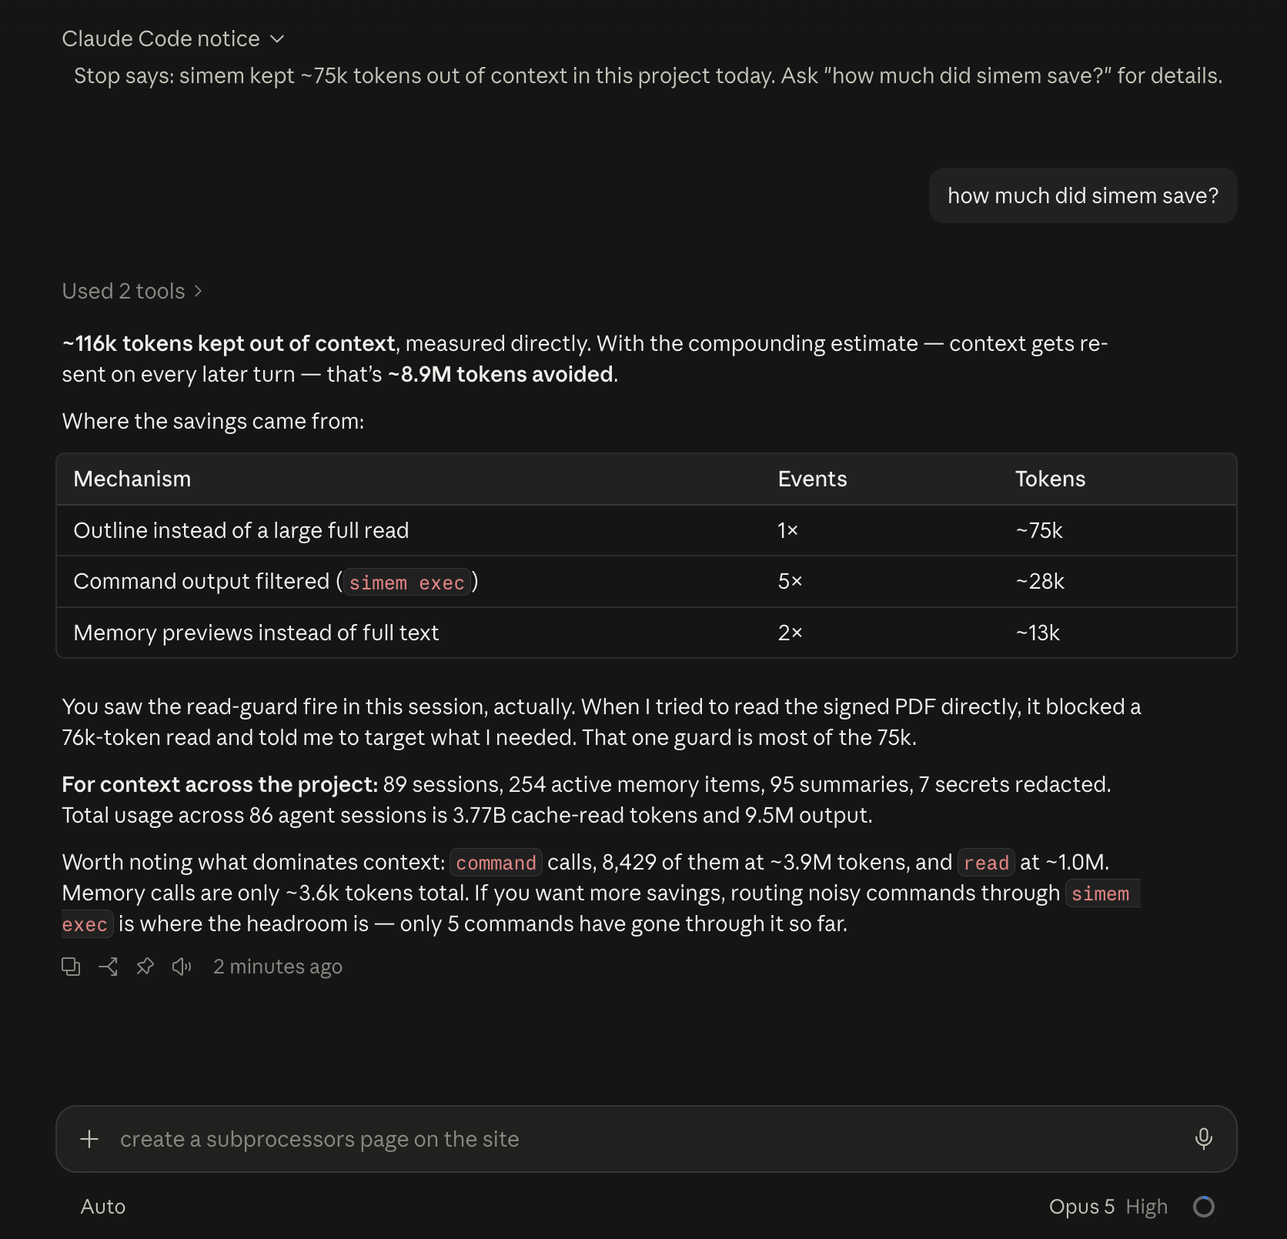
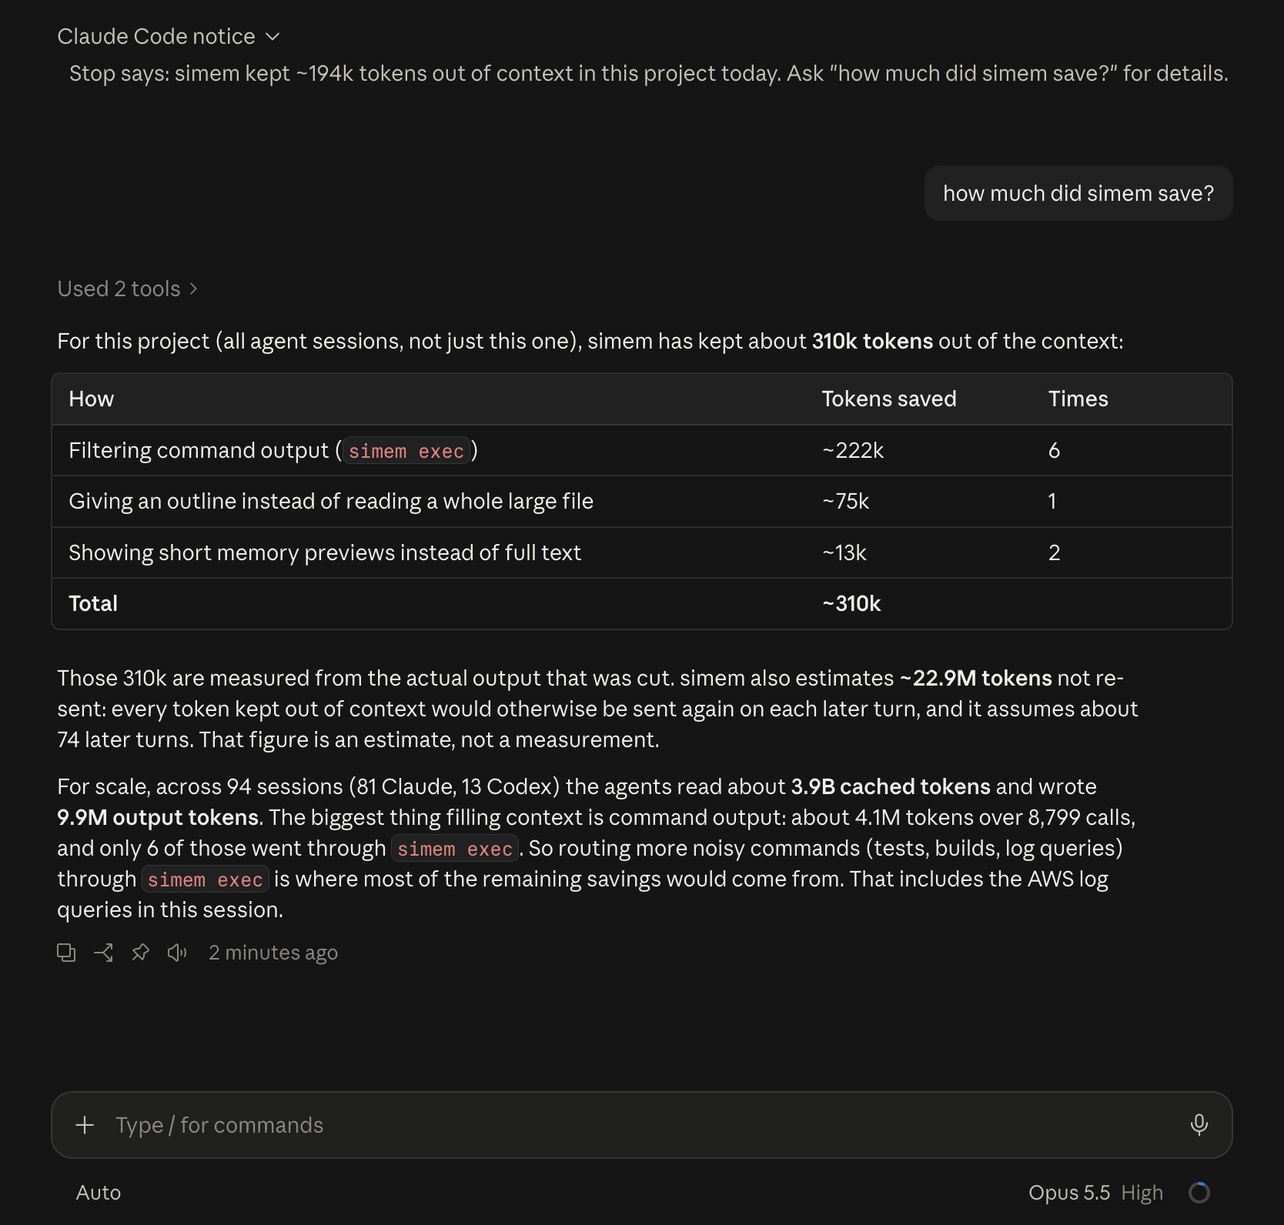
README: latest savings screenshot; images for the simem blog post
The README screenshot now shows ~310k tokens kept out of context
(measured) and ~22.9M not re-sent (estimate); the text under it matches.
Adds the six images (and their HTML sources) that the dev.to and Medium
posts load from raw.githubusercontent.com.

diff --git a/blog/simem/images/src/03-one-memory.html b/blog/simem/images/src/03-one-memory.html
@@ -1,0 +1,58 @@
+<!doctype html>
+<meta charset="utf-8">
+<link rel="stylesheet" href="base.css">
+<style>
+  svg { display: block; margin-top: 26px; }
+  .pill rect { fill: var(--panel); stroke: var(--line); }
+  .pill text { fill: var(--ink); font-size: 21px; font-weight: 600; }
+  .pill .s { fill: var(--ink-3); font-size: 15px; font-weight: 500; }
+  .wire { stroke: var(--with); stroke-width: 2.5; fill: none; opacity: .8; }
+  .vault rect.o { fill: #12241e; stroke: var(--with); stroke-width: 2; }
+  .vault text { fill: var(--ink); }
+  .checks text { fill: var(--ink-2); font-size: 21px; }
+  .checks .c { fill: var(--mint); font-weight: 700; }
+</style>
+<div class="frame glow">
+  <div class="kicker">Problem 2 · memory stuck in one app, one account</div>
+  <h1>Memory belongs to the project.<br><span class="mint">Not to the app. Not to the login.</span></h1>
+  <svg width="1456" height="560" viewBox="0 0 1456 560">
+    <defs>
+      <marker id="a" viewBox="0 0 10 10" refX="8" refY="5" markerWidth="7" markerHeight="7" orient="auto"><path d="M0 0L10 5L0 10z" fill="#199e70"/></marker>
+    </defs>
+    <!-- sources -->
+    <g class="pill" transform="translate(0,20)"><rect width="380" height="76" rx="14"/><text x="24" y="34">Claude Code</text><text class="s" x="24" y="58">account A, app or CLI</text></g>
+    <g class="pill" transform="translate(0,120)"><rect width="380" height="76" rx="14"/><text x="24" y="34">Claude Code</text><text class="s" x="24" y="58">account B, after hitting a limit</text></g>
+    <g class="pill" transform="translate(0,220)"><rect width="380" height="76" rx="14"/><text x="24" y="34">Codex</text><text class="s" x="24" y="58">app or CLI</text></g>
+    <g class="pill" transform="translate(0,320)"><rect width="380" height="76" rx="14"/><text x="24" y="34">Cursor</text><text class="s" x="24" y="58">through simem's tools</text></g>
+    <g class="pill" transform="translate(0,420)"><rect width="380" height="76" rx="14"/><text x="24" y="34">New worktree or re-clone</text><text class="s" x="24" y="58">same repo, different folder</text></g>
+    <!-- wires -->
+    <path class="wire" marker-end="url(#a)" d="M380 58 C 470 58, 470 240, 548 250"/>
+    <path class="wire" marker-end="url(#a)" d="M380 158 C 470 158, 470 250, 548 255"/>
+    <path class="wire" marker-end="url(#a)" d="M380 258 L 548 258"/>
+    <path class="wire" marker-end="url(#a)" d="M380 358 C 470 358, 470 266, 548 261"/>
+    <path class="wire" marker-end="url(#a)" d="M380 458 C 470 458, 470 276, 548 266"/>
+    <!-- vault -->
+    <g class="vault" transform="translate(556,150)">
+      <rect class="o" width="400" height="216" rx="20"/>
+      <text x="32" y="56" font-size="15" font-family="SF Mono, Menlo, monospace" letter-spacing="2" fill="#9fe3c7">ON YOUR MACHINE</text>
+      <text x="32" y="102" font-size="24" font-weight="700" font-family="SF Mono, Menlo, monospace">~/.simem/projects/</text>
+      <text x="32" y="134" font-size="24" font-weight="700" font-family="SF Mono, Menlo, monospace">&lt;project-id&gt;</text>
+      <text x="32" y="174" font-size="16" fill="#b9c7c0">id = your repo's first commit,</text>
+      <text x="32" y="196" font-size="16" fill="#b9c7c0">the same in every clone and worktree</text>
+    </g>
+    <path class="wire" marker-end="url(#a)" d="M956 258 L 1044 258"/>
+    <!-- result -->
+    <g transform="translate(1052,58)">
+      <rect width="404" height="400" rx="20" fill="#171e1b" stroke="#2a3530"/>
+      <text x="30" y="52" font-size="24" font-weight="700" fill="#eef5f1">Same memory everywhere</text>
+      <g class="checks">
+        <text x="30" y="110"><tspan class="c">✓ </tspan>log out, switch accounts</text>
+        <text x="30" y="160"><tspan class="c">✓ </tspan>Claude Code ⇄ Codex ⇄ Cursor</text>
+        <text x="30" y="210"><tspan class="c">✓ </tspan>new worktrees</text>
+        <text x="30" y="260"><tspan class="c">✓ </tspan>fresh clones</text>
+        <text x="30" y="310"><tspan class="c">✓ </tspan>renamed folders</text>
+        <text x="30" y="360"><tspan class="c">✓ </tspan>say “continue” in the other app</text>
+      </g>
+    </g>
+  </svg>
+</div>

diff --git a/blog/simem/images/src/05-jest-before-after.html b/blog/simem/images/src/05-jest-before-after.html
@@ -1,0 +1,69 @@
+<!doctype html>
+<meta charset="utf-8">
+<link rel="stylesheet" href="base.css">
+<style>
+  .cols { display: grid; grid-template-columns: 1.08fr 1fr; gap: 28px; margin-top: 30px; }
+  .term { background: #0b0f0e; border: 1px solid var(--line); border-radius: 16px; overflow: hidden; }
+  .bar { display: flex; align-items: center; gap: 8px; padding: 14px 18px; background: var(--panel); border-bottom: 1px solid var(--line); }
+  .bar i { width: 12px; height: 12px; border-radius: 50%; background: #3a4842; }
+  .bar b { margin-left: 10px; font-size: 18px; font-weight: 650; }
+  .bar span { margin-left: auto; font: 600 16px var(--mono); padding: 5px 10px; border-radius: 8px; }
+  pre { margin: 0; padding: 16px 20px; font: 15.5px/1.5 var(--mono); color: var(--ink-2); height: 520px; overflow: hidden; }
+  .p { color: #4f9e7e; }
+  .f { color: #ff7b5a; font-weight: 700; }
+  .w { color: var(--ink); }
+  .dim { color: var(--ink-3); font-style: italic; }
+  .stats { display: flex; gap: 14px; margin-top: 22px; }
+  .chip { background: var(--panel); border: 1px solid var(--line); border-radius: 12px; padding: 12px 18px; font-size: 19px; color: var(--ink-2); }
+  .chip b { color: var(--mint); font-size: 22px; margin-right: 6px; }
+</style>
+<div class="frame glow">
+  <div class="kicker">Problem 3 · what simem trims</div>
+  <h1>112 lines in. <span class="mint">12 lines out.</span> The failure, word for word.</h1>
+  <div class="cols">
+    <div class="term">
+      <div class="bar"><i></i><i></i><i></i><b>npx jest, as printed</b><span style="background:rgba(217,89,38,.16);color:#ff9a78">4,082 chars</span></div>
+<pre><span class="p"> PASS </span> src/module0.test.ts
+<span class="p"> PASS </span> src/module1.test.ts
+<span class="p"> PASS </span> src/module2.test.ts
+<span class="p"> PASS </span> src/module3.test.ts
+<span class="p"> PASS </span> src/module4.test.ts
+<span class="dim">   … 55 more PASS lines …</span>
+<span class="f"> FAIL </span> <span class="w">src/billing/invoice.test.ts</span>
+<span class="w">  ● computeInvoiceTotal › applies tax</span>
+<span class="w">    expect(received).toBe(expected) // Object.is equality</span>
+<span class="w">    Expected: 120</span>
+<span class="w">    Received: 100</span>
+<span class="w">      at Object.&lt;anonymous&gt; (src/billing/invoice.test.ts:12:23)</span>
+<span class="p">  ✓</span> unrelated passing case 0 (3 ms)
+<span class="p">  ✓</span> unrelated passing case 1 (3 ms)
+<span class="p">  ✓</span> unrelated passing case 2 (3 ms)
+<span class="p">  ✓</span> unrelated passing case 3 (3 ms)
+<span class="dim">   … 36 more passing lines …</span>
+Test Suites: 1 failed, 60 passed, 61 total
+Tests:       1 failed, 340 passed, 341 total
+Time:        8.123 s</pre>
+    </div>
+    <div class="term">
+      <div class="bar"><i></i><i></i><i></i><b>what the agent reads with simem</b><span style="background:rgba(25,158,112,.18);color:#9fe3c7">341 chars</span></div>
+<pre><span class="f">FAIL</span>  <span class="w">src/billing/invoice.test.ts</span>
+<span class="w">  ● computeInvoiceTotal › applies tax</span>
+
+<span class="w">    expect(received).toBe(expected) // Object.is equality</span>
+
+<span class="w">    Expected: 120</span>
+<span class="w">    Received: 100</span>
+
+<span class="w">      at Object.&lt;anonymous&gt; (src/billing/invoice.test.ts:12:23)</span>
+<span class="w">Test Suites: 1 failed, 60 passed, 61 total</span>
+<span class="w">Tests:       1 failed, 340 passed, 341 total</span>
+<span class="w">Time:        8.123 s</span>
+</pre>
+    </div>
+  </div>
+  <div class="stats">
+    <div class="chip"><b>92%</b>shorter</div>
+    <div class="chip"><b>0</b>failure lines dropped</div>
+    <div class="chip"><b>100%</b>of the raw output kept on disk: <code>simem out &lt;id&gt;</code></div>
+  </div>
+</div>

diff --git a/blog/simem/images/src/02-session-start.html b/blog/simem/images/src/02-session-start.html
@@ -1,0 +1,58 @@
+<!doctype html>
+<meta charset="utf-8">
+<link rel="stylesheet" href="base.css">
+<style>
+  .cols { display: grid; grid-template-columns: 1fr 1fr; gap: 28px; margin-top: 34px; }
+  .panel { background: var(--panel); border: 1px solid var(--line); border-radius: 18px; overflow: hidden; }
+  .head { display: flex; align-items: center; gap: 12px; padding: 18px 24px; border-bottom: 1px solid var(--line); font-weight: 650; font-size: 22px; }
+  .dot { width: 12px; height: 12px; border-radius: 50%; }
+  .head small { margin-left: auto; font-weight: 500; font-size: 15px; color: var(--ink-3); }
+  .body { padding: 20px 26px; font: 18px/1.62 var(--mono); color: var(--ink-2); height: 410px; }
+  .tool { color: var(--ink); }
+  .tool b { display: inline-block; min-width: 82px; color: var(--without); font-weight: 600; }
+  .say { color: var(--ink); font-family: -apple-system, sans-serif; font-size: 19px; }
+  .ask { margin-top: 10px; padding: 10px 14px; border-radius: 10px; background: rgba(217, 89, 38, .12); border: 1px solid rgba(217, 89, 38, .35); color: var(--ink); font-family: -apple-system, sans-serif; font-size: 19px; }
+  .h { color: var(--mint); font-weight: 600; }
+  .k { color: var(--ink); }
+  .note { padding: 14px 26px 18px; font-size: 17px; line-height: 1.4; border-top: 1px solid var(--line); color: var(--ink-2); }
+  .note strong { color: var(--ink); }
+</style>
+<div class="frame glow">
+  <div class="kicker">Problem 1 · every session starts from scratch</div>
+  <h1>Session #48. Same project. <span class="mint">Same questions.</span></h1>
+  <div class="cols">
+    <div class="panel">
+      <div class="head"><span class="dot" style="background:var(--without)"></span>Without memory<small>typical first minutes</small></div>
+      <div class="body">
+        <div class="say">“Let me explore the project structure first.”</div>
+        <div class="tool"><b>Bash</b> ls -la</div>
+        <div class="tool"><b>Read</b> README.md</div>
+        <div class="tool"><b>Read</b> package.json</div>
+        <div class="tool"><b>Search</b> "test" in **/*.json</div>
+        <div class="tool"><b>Read</b> src/memory/store.ts</div>
+        <div class="tool"><b>Read</b> src/memory/items.ts</div>
+        <div class="tool"><b>Read</b> src/compress/filters.ts</div>
+        <div class="tool"><b>Read</b> tsconfig.json</div>
+        <div class="ask">“How do you usually run the tests here?”</div>
+      </div>
+      <div class="note"><strong>Rediscovering yesterday.</strong> And every one of those pages is re-sent on every later turn.</div>
+    </div>
+    <div class="panel">
+      <div class="head"><span class="dot" style="background:var(--with)"></span>With simem<small>real primer, simem's own repo (trimmed)</small></div>
+      <div class="body">
+        <div class="h">## Project memory: coding-agents-orchestrator</div>
+        <div class="h">### Latest work (claude app, 2026-10-19)</div>
+        <div>Title: <span class="k">Local memory and token optimization</span></div>
+        <div>Outcome: <span class="k">Version 2.0.3 is fully released.</span></div>
+        <div class="h">### Decisions &amp; constraints</div>
+        <div>- <span class="k">Must work in the coding agent apps,</span></div>
+        <div>  <span class="k">not just the CLI.</span></div>
+        <div>- <span class="k">Please make sure nothing breaks.</span></div>
+        <div class="h">### Build &amp; test commands that worked here</div>
+        <div>- <span class="k">npm run typecheck</span></div>
+        <div>- <span class="k">node --import tsx --test test/*.test.ts</span></div>
+      </div>
+      <div class="note"><strong>Starts knowing the basics.</strong> The agent still opens files to do the work, not to relearn the project.</div>
+    </div>
+  </div>
+</div>

diff --git a/blog/simem/images/src/04-compounding.html b/blog/simem/images/src/04-compounding.html
@@ -1,0 +1,55 @@
+<!doctype html>
+<meta charset="utf-8">
+<link rel="stylesheet" href="base.css">
+<style>
+  svg { display: block; margin-top: 22px; }
+  .grid { stroke: #24302b; stroke-width: 1; }
+  .axis { fill: var(--ink-3); font-size: 16px; }
+  .lbl { font-size: 20px; font-weight: 650; fill: var(--ink); }
+  .val { font-size: 17px; fill: var(--ink-2); }
+  .legend { display: flex; gap: 28px; margin-top: 22px; font-size: 18px; color: var(--ink-2); }
+  .legend span { display: inline-flex; align-items: center; gap: 10px; }
+  .legend i { width: 26px; height: 4px; border-radius: 2px; display: inline-block; }
+</style>
+<div class="frame glow">
+  <div class="kicker">Problem 3 · paying for the same text again and again</div>
+  <h1>One test report, <span class="mint">re-read on every turn after it.</span></h1>
+  <div class="sub">A jest run with 1 failure in 341 tests: ~1,130 tokens as printed, ~95 tokens after simem's filter. The app re-sends it with every message until the conversation is compacted.</div>
+  <div class="legend"><span><i style="background:var(--without)"></i>Without simem</span><span><i style="background:var(--with)"></i>With simem</span></div>
+  <svg width="1456" height="470" viewBox="0 0 1456 470">
+    <!-- y grid: 0..36k → 420..20 -->
+    <g class="grid">
+      <line x1="100" x2="1210" y1="420" y2="420" stroke="#3a4842"/>
+      <line x1="100" x2="1210" y1="308.9" y2="308.9"/>
+      <line x1="100" x2="1210" y1="197.8" y2="197.8"/>
+      <line x1="100" x2="1210" y1="86.7" y2="86.7"/>
+    </g>
+    <g class="axis" text-anchor="end">
+      <text x="86" y="425">0</text><text x="86" y="314">10k</text><text x="86" y="203">20k</text><text x="86" y="92">30k</text>
+    </g>
+    <text class="axis" x="100" y="16" font-size="15">Tokens re-read, cumulative</text>
+    <!-- x: turn 0..30 → 100..1210 (37 px/turn) -->
+    <g class="axis" text-anchor="middle">
+      <text x="100" y="448">0</text><text x="285" y="448">5</text><text x="470" y="448">10</text><text x="655" y="448">15</text><text x="840" y="448">20</text><text x="1025" y="448">25</text><text x="1210" y="448">30</text>
+    </g>
+    <text class="axis" x="655" y="470" text-anchor="middle" font-size="15">Turns after the test run</text>
+    <!-- without: 1,134/turn → 30 turns = 34,020 → y = 420 - 34020/90 = 42 -->
+    <path d="M100 420 L1210 42 L1210 420 Z" fill="#d95926" opacity=".10"/>
+    <path d="M100 420 L1210 42" stroke="#d95926" stroke-width="3" fill="none" stroke-linecap="round"/>
+    <!-- with: 95/turn → 2,850 → y = 420 - 31.7 = 388.3 -->
+    <path d="M100 420 L1210 388.3 L1210 420 Z" fill="#199e70" opacity=".18"/>
+    <path d="M100 420 L1210 388.3" stroke="#199e70" stroke-width="3" fill="none" stroke-linecap="round"/>
+    <circle cx="1210" cy="42" r="6" fill="#d95926" stroke="#0f1513" stroke-width="2"/>
+    <circle cx="1210" cy="388.3" r="6" fill="#199e70" stroke="#0f1513" stroke-width="2"/>
+    <!-- direct labels -->
+    <text class="lbl" x="1228" y="40">~34,000 tokens</text>
+    <text class="val" x="1228" y="64">without simem</text>
+    <text class="lbl" x="1228" y="386">~2,850 tokens</text>
+    <text class="val" x="1228" y="410">with simem</text>
+    <!-- gap bracket -->
+    <line x1="1180" x2="1180" y1="58" y2="374" stroke="#9fe3c7" stroke-width="1.5" stroke-dasharray="4 5"/>
+    <text x="1162" y="210" text-anchor="end" font-size="26" font-weight="750" fill="#9fe3c7">~31,000 tokens</text>
+    <text x="1162" y="240" text-anchor="end" font-size="18" fill="#b9c7c0">never sent, from one report</text>
+  </svg>
+  <div class="foot"><span>Illustration of the compounding effect. Tokens ≈ characters ÷ 3.6, the rate <code>simem stats</code> uses.</span></div>
+</div>

diff --git a/blog/simem/images/src/06-filter-bars.html b/blog/simem/images/src/06-filter-bars.html
@@ -1,0 +1,28 @@
+<!doctype html>
+<meta charset="utf-8">
+<link rel="stylesheet" href="base.css">
+<style>
+  .rows { margin-top: 40px; display: grid; gap: 16px; }
+  .row { display: grid; grid-template-columns: 250px 1fr 120px; align-items: center; gap: 22px; }
+  .name { font: 600 22px var(--mono); color: var(--ink); text-align: right; }
+  .track { height: 40px; position: relative; border-left: 2px solid #3a4842; }
+  .fill { height: 100%; background: var(--with); border-radius: 0 4px 4px 0; }
+  .pct { font-size: 26px; font-weight: 750; color: var(--ink); }
+  .zero .track::after { content: "kept whole: every line is a failure"; position: absolute; left: 18px; top: 8px; font-size: 19px; color: var(--mint); }
+  .zero .pct { color: var(--ink-2); }
+</style>
+<div class="frame glow">
+  <div class="kicker">Problem 3 · how much shorter reports get</div>
+  <h1>Noise goes. <span class="mint">Errors never do.</span></h1>
+  <div class="sub">Share of each command report simem removes before the agent reads it, measured on simem's test corpus.</div>
+  <div class="rows">
+    <div class="row"><div class="name">npm install</div><div class="track"><div class="fill" style="width:99%"></div></div><div class="pct">99%</div></div>
+    <div class="row"><div class="name">vitest</div><div class="track"><div class="fill" style="width:99%"></div></div><div class="pct">99%</div></div>
+    <div class="row"><div class="name">node:test</div><div class="track"><div class="fill" style="width:98%"></div></div><div class="pct">98%</div></div>
+    <div class="row"><div class="name">go test</div><div class="track"><div class="fill" style="width:98%"></div></div><div class="pct">98%</div></div>
+    <div class="row"><div class="name">jest</div><div class="track"><div class="fill" style="width:92%"></div></div><div class="pct">92%</div></div>
+    <div class="row"><div class="name">pytest</div><div class="track"><div class="fill" style="width:81%"></div></div><div class="pct">81%</div></div>
+    <div class="row zero"><div class="name">compiler errors</div><div class="track"></div><div class="pct">0%</div></div>
+  </div>
+  <div class="foot"><span>Exact characters before and after. On 1,700 real reports from 32 sessions, where agents had already shortened most output: 22% overall, 46% for tests.</span></div>
+</div>

diff --git a/blog/simem/images/src/base.css b/blog/simem/images/src/base.css
@@ -1,0 +1,35 @@
+:root {
+  --bg: #0f1513;
+  --panel: #171e1b;
+  --panel-2: #1d2622;
+  --line: #2a3530;
+  --ink: #eef5f1;
+  --ink-2: #b9c7c0;
+  --ink-3: #7f8f88;
+  --brand: #1f5a4c;
+  --mint: #9fe3c7;
+  --with: #199e70;      /* validated dark slot (aqua) - "with simem" */
+  --without: #d95926;   /* validated dark slot (orange) - "without" */
+  --mono: "SF Mono", Menlo, Monaco, Consolas, monospace;
+}
+* { box-sizing: border-box; }
+html, body { margin: 0; background: var(--bg); color: var(--ink); }
+body {
+  font-family: -apple-system, "SF Pro Display", "Inter", "Segoe UI", Helvetica, sans-serif;
+  -webkit-font-smoothing: antialiased;
+  overflow: hidden;
+}
+.frame { position: relative; padding: 64px 72px; height: 100vh; }
+.glow::before {
+  content: ""; position: absolute; inset: 0; pointer-events: none;
+  background: radial-gradient(900px 500px at 85% -10%, rgba(159, 227, 199, .10), transparent 60%),
+              radial-gradient(700px 400px at -10% 110%, rgba(31, 90, 76, .35), transparent 60%);
+}
+.brand { display: flex; align-items: center; gap: 12px; font-weight: 650; font-size: 22px; letter-spacing: -.01em; color: var(--ink-2); }
+.brand img { width: 34px; height: 34px; }
+.kicker { font: 600 18px/1 var(--mono); letter-spacing: .12em; text-transform: uppercase; color: var(--mint); }
+h1 { margin: 14px 0 0; font-size: 54px; line-height: 1.08; letter-spacing: -.025em; font-weight: 750; }
+.sub { margin-top: 14px; font-size: 24px; line-height: 1.4; color: var(--ink-2); max-width: 1250px; }
+.mint { color: var(--mint); }
+.foot { position: absolute; left: 72px; right: 72px; bottom: 40px; font-size: 17px; color: var(--ink-3); display: flex; justify-content: space-between; }
+code, .mono { font-family: var(--mono); }

diff --git a/blog/simem/images/src/01-cover.html b/blog/simem/images/src/01-cover.html
@@ -1,0 +1,26 @@
+<!doctype html>
+<meta charset="utf-8">
+<link rel="stylesheet" href="base.css">
+<style>
+  .frame { padding: 44px 48px; display: grid; grid-template-columns: 1fr 310px; gap: 32px; align-items: center; }
+  h1 { font-size: 40px; margin-top: 18px; }
+  .sub { font-size: 19px; margin-top: 16px; }
+  .cards { display: grid; gap: 12px; position: relative; }
+  .card { background: var(--panel); border: 1px solid var(--line); border-radius: 14px; padding: 14px 18px; }
+  .num { font-size: 30px; font-weight: 750; letter-spacing: -.02em; color: var(--mint); }
+  .lbl { font-size: 14.5px; color: var(--ink-2); margin-top: 3px; line-height: 1.35; }
+  .tag { font: 600 11px/1 var(--mono); letter-spacing: .08em; text-transform: uppercase; color: var(--ink-3); margin-left: 6px; vertical-align: 3px; }
+  .left { position: relative; }
+</style>
+<div class="frame glow">
+  <div class="left">
+    <div class="brand"><img src="simem.svg" alt="">simem</div>
+    <h1>Your AI coding agent forgets everything.<br><span class="mint">You pay for it on every turn.</span></h1>
+    <div class="sub">Three problems that quietly drain Claude Code, Codex and Cursor sessions, and the free local tool I built to fix them.</div>
+  </div>
+  <div class="cards">
+    <div class="card"><div class="num">~310k<span class="tag">measured</span></div><div class="lbl">tokens kept out of context in one real project</div></div>
+    <div class="card"><div class="num">81–99%</div><div class="lbl">shorter test &amp; install reports, failures kept word for word</div></div>
+    <div class="card"><div class="num">0</div><div class="lbl">tokens spent building your memory, all on your machine</div></div>
+  </div>
+</div>

diff --git a/README.md b/README.md
@@ -137,11 +137,11 @@ Ask your agent *"how much did simem save?"*, run `simem stats`, or open the dash
 
 **What that looks like in a real session.** In Claude Code you don't have to remember to ask: simem's session hook shows a short notice on its own — once per session, when the agent finishes a reply and simem has saved at least 1k tokens in the project that day (the "Claude Code notice" at the top of the screenshot). Ask the question it suggests and the agent answers from simem's own records:
 
-<p align="center"><img src="docs/images/simem-savings-session.png" width="720" alt="Claude Code session: asked how much simem saved, the agent reports ~116k tokens kept out of context (measured) and ~8.9M tokens avoided with the compounding estimate, broken down by outline-instead-of-full-read, filtered command output, and memory previews"></p>
+<p align="center"><img src="docs/images/simem-savings-session.png" width="720" alt="Claude Code session: asked how much simem saved, the agent reports ~310k tokens kept out of context (measured) and ~22.9M tokens not re-sent (estimate), broken down by filtered command output, outline-instead-of-full-read, and memory previews"></p>
 
-- **~116k tokens kept out of context, measured.** One large-read guard alone stopped a 76k-token file read and pointed the agent at the part it needed.
-- **~8.9M tokens avoided, estimated** — because whatever stays out of context isn't re-sent on every later turn.
-- The agent also spots where more savings are: only 5 commands had gone through `simem exec`, while command output was the biggest thing in context.
+- **~310k tokens kept out of context, measured**, across every agent session in the project. Just 6 commands run through `simem exec` account for ~222k of it, and one large-read guard stopped a ~75k-token file read.
+- **~22.9M tokens not re-sent, estimated** — because whatever stays out of context isn't sent again on every later turn.
+- The agent also spots where more savings are: command output filled ~4.1M tokens over 8,799 calls, and only 6 of those had gone through `simem exec`.
 
 ## Memory that follows the project, not the account
 
